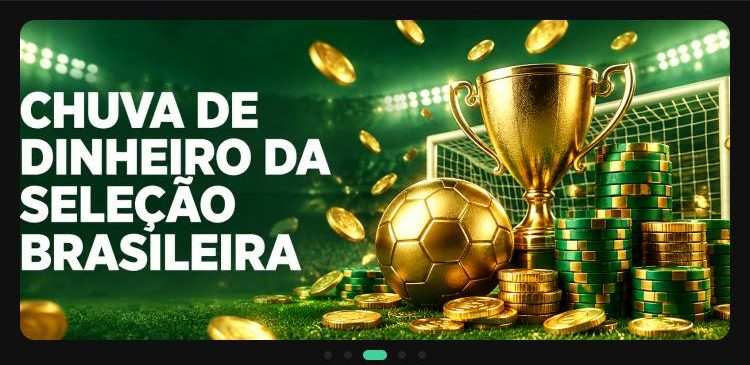
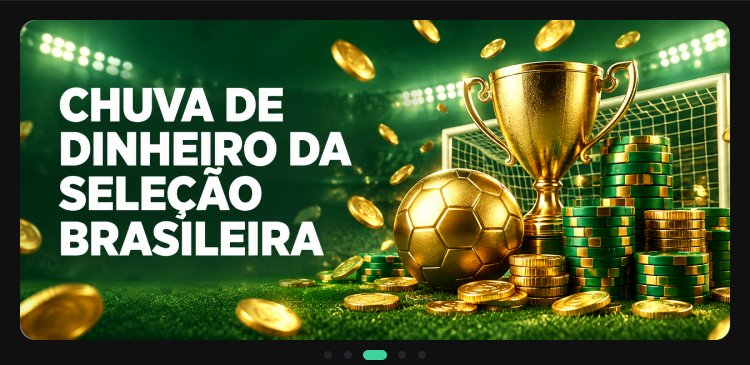
原型：自定义模版 B/C/D 配色版本补齐（按钮、页签、图标、底板、底部导航、奖池跟风格色，品牌图标保留原色）
Figma 04 配色版本页 65895:2 用「配色 · 色相层」补齐 9 帧后重新导出整页图与 Banner 切片。

Claude-Session: https://claude.ai/code/session_01DzgfanUjv3RiG8JrrSj5xx

diff --git a/prototype/README.md b/prototype/README.md
@@ -45,7 +45,7 @@ cd prototype && python3 -m http.server 8765
   - 点画布区块 → 蓝框 + 浮动工具条（上移 / 下移 / 复制 / 隐藏 / 删除 / 换布局，固定层只能换布局，悬浮层可隐藏）；右栏当前布局 + 参数；换布局面板列出该模块所有布局缩略图卡（选中淡蓝底蓝字，「已采用」= 打开前的布局），点卡片画布实时换；参数（列数 / 行数 / 圆角档 / 间距档 / 标题样式）实时生效，控件为 `CT.pseg()` 等宽分段，样式集中在 customtpl.css「参数分段控件」。撤销 / 重做；H5 / PC 的 PC 沿用 `window.PC_OPEN`，锁定时提示「暂未开放」。
   - 线框全部用 HTML/CSS 画（每个布局选项一个渲染函数，14 模块 43 个选项；只用底板色分层、图片为纯色块、不描边），日夜两套 `--wf-*` 变量。G4 左侧竖向分类栏会把紧跟其后的游戏分区放到右侧。
   - 「选风格并生成」→ 选风格（墨绿金 / 香槟金 / 暗夜绿 / 清爽蓝 + 可选提示词 + 消耗 50 点 + 余额）→ 现有扣点确认（余额不足变「去充值」）→ 扣点并写流水 → 生成中（约 3.2 秒，线框逐块上色 + 分析布局 / 匹配风格 / 生成素材 / 组装页面；取消则退回点数并删掉该条流水）→ 结果页（左线框 / 右成品可滚动、信息卡：所选风格、方案 X · 结构一致 N%、扣点、用时；返回线框 / 重新生成 / 采用并进入编辑器）。手机结果页为「AI 成品 / 线框对比」两个页签 + 底部按钮。
-  - 结果选择：当前序列（顶部栏 + 可见内容区块 + 底部导航 + 悬浮层的布局选项）与 4 套起始线框比较，选项一致每个 1 分 + 顺序一致（最长公共子序列）每个 0.5 分，最高者胜；平分按所选风格（墨绿金 A / 香槟金 B / 暗夜绿 C / 清爽蓝 D）。百分比 = 得分 ÷（1.5 × 较长序列长度）。成品图 `assets/custom-tpl/result-A~D.jpg`。从 D 起始不改 → 方案 D 100%；空白起始 → 平分，按风格。
+  - 结果选择：当前序列（顶部栏 + 可见内容区块 + 底部导航 + 悬浮层的布局选项）与 4 套起始线框比较，选项一致每个 1 分 + 顺序一致（最长公共子序列）每个 0.5 分，最高者胜；平分按所选风格（墨绿金 A / 香槟金 B / 暗夜绿 C / 清爽蓝 D）。百分比 = 得分 ÷（1.5 × 较长序列长度）。成品图 `assets/custom-tpl/result-A~D.jpg`。配色版本整页图 `result-X-风格.jpg` + Banner 切片 `banner-X-风格.jpg`（12 套 = 4 版式 × 3 非原稿风格，Figma 页 65895:2「04 配色版本」用「配色 · 色相层」HUE 叠层导出，750 宽 1×；第三方品牌图标保留原色；11-28 补齐 B/C/D 到 A 的完整度）。从 D 起始不改 → 方案 D 100%；空白起始 → 平分，按风格。
   - 采用 → 新建项目「自定义模版 · 方案X」并进现有编辑器（主题色按方案：A / C 绿、B 金、D 蓝），加载完提示「已采用 AI 生成结果」，提示上的「返回线框」回到 `#/custom`（排版保存在 LocalStorage `proto.ct`）。右栏「上次生成」可再打开上次结果。
   - 手机（<840）：顶部返回 / 撤销 / 重做 / 生成；底部工具栏 模块库 / 图层 / 换布局（未选中时为页面排版与全局样式）/ 预览；模块库、图层、换布局、选风格、生成进度都是底部抽屉；图层用把手拖动排序。
 
